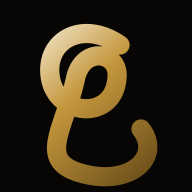
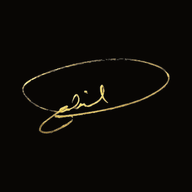
Use the handwritten gold-leaf signature
Place the supplied signature once after the November 6 edition and use those same pixels for the browser icons. The 16 and 32 pixel reductions do not read.

Changed region(s): [[0.0938, 0.125, 0.8438, 1.0], [0.7812, 0.3438, 0.9062, 0.5], [0.1562, 0.5312, 0.2188, 0.5625]]

diff --git a/whats-in-the-air-2026-11-06.html b/whats-in-the-air-2026-11-06.html
@@ -279,6 +279,24 @@ footer{
   color:var(--parchment);margin-bottom:1.5rem;
 }
 .stanza:last-child{margin-bottom:0}
+.edition-sign{
+  margin:4.5rem auto 2.5rem;
+  max-width:40rem;
+  text-align:center;
+}
+.edition-sign .sign-name{
+  font-family:'Cinzel',serif;
+  font-size:0.72rem;
+  letter-spacing:0.2em;
+  text-transform:uppercase;
+  color:var(--parchment);
+  margin-bottom:1.8rem;
+}
+.edition-sign img{
+  width:100%;
+  height:auto;
+  display:block;
+}
 .edition-back{text-align:center;padding:1rem 0 3rem}
 .edition-back a{
   font-family:'Cinzel',serif;font-size:0.7rem;letter-spacing:0.2em;
@@ -384,6 +402,10 @@ footer{
         y aún esperan ser contadas del todo.</p>
       </div>
     </section>
+    <div class="edition-sign">
+      <p class="sign-name">Vicente Gabriel Flores</p>
+      <img src="/vicente-gabriel-flores-signature.png" width="900" height="506" alt="Handwritten signature of Vicente Gabriel Flores in gold leaf.">
+    </div>
   </article>
   <p class="x-follow end"><a href="https://x.com/pasadornovel" target="_blank" rel="noopener">Follow on X / <span lang="es">Sígueme en X</span>: @pasadornovel</a></p>
   <p class="edition-back"><a href="/whats-in-the-air.html">All editions</a></p>

diff --git a/WHATS-IN-THE-AIR.md b/WHATS-IN-THE-AIR.md
@@ -32,11 +32,9 @@ The author name on every new page is **Vicente Gabriel Flores**. Do not add any 
 
 ## Icon and signature
 
-The browser icon is the lowercase script g, antique gold on midnight. The pages already point at the shared files: `favicon.svg`, `favicon.ico` (16, 32, and 48), `favicon-16x16.png`, `favicon-32x32.png`, `favicon-48x48.png`, `favicon-96x96.png`, `apple-touch-icon.png`, `icon-192.png`, and `icon-512.png`. Leave that mark in place. Do not restore the eye, and do not put a circle around the g. Do not set the g behind the stanzas or drop it in as a seal.
+The site mark is Vicente Gabriel Flores's handwritten signature, the gold-leaf oval in `vicente-gabriel-flores-signature.png`. Do not redraw it, and do not substitute a letter or a portrait. The browser files (`favicon.svg`, `favicon.ico`, the PNG sizes, the Apple touch icon, `icon-192.png`, `icon-512.png`) are that same signature reduced. At 16 and 32 pixels it does not read. Leave the files; do not invent a simpler mark.
 
-The approved portrait — the midnight-and-gold likeness with the script g on it — belongs once, after the whole bilingual edition, under the written byline, with open space around it. About 150 pixels wide on a desktop window, about 125 on a phone. Keep the full picture. Do not crop it or stretch it. Soften the outer edge into the page background. The archive may carry one small copy, not a copy on every card. Do not repeat it beside the poem.
-
-That portrait file was not in the site folder when the icon was changed, so it is not embedded yet. Do not draw a substitute face. When the approved file is added, save it as `vicente-gabriel-flores-midnight-gold-portrait.jpg` and place it as above.
+Every edition ends once, after the English and the Spanish, with the written name and then the full signature beneath it, across the text column. Copying the previous edition keeps that close. Do not put the signature beside the stanzas, in a corner, or on the archive cards. The home page has no picture logo; do not add one.
 
 ## Feed
 
